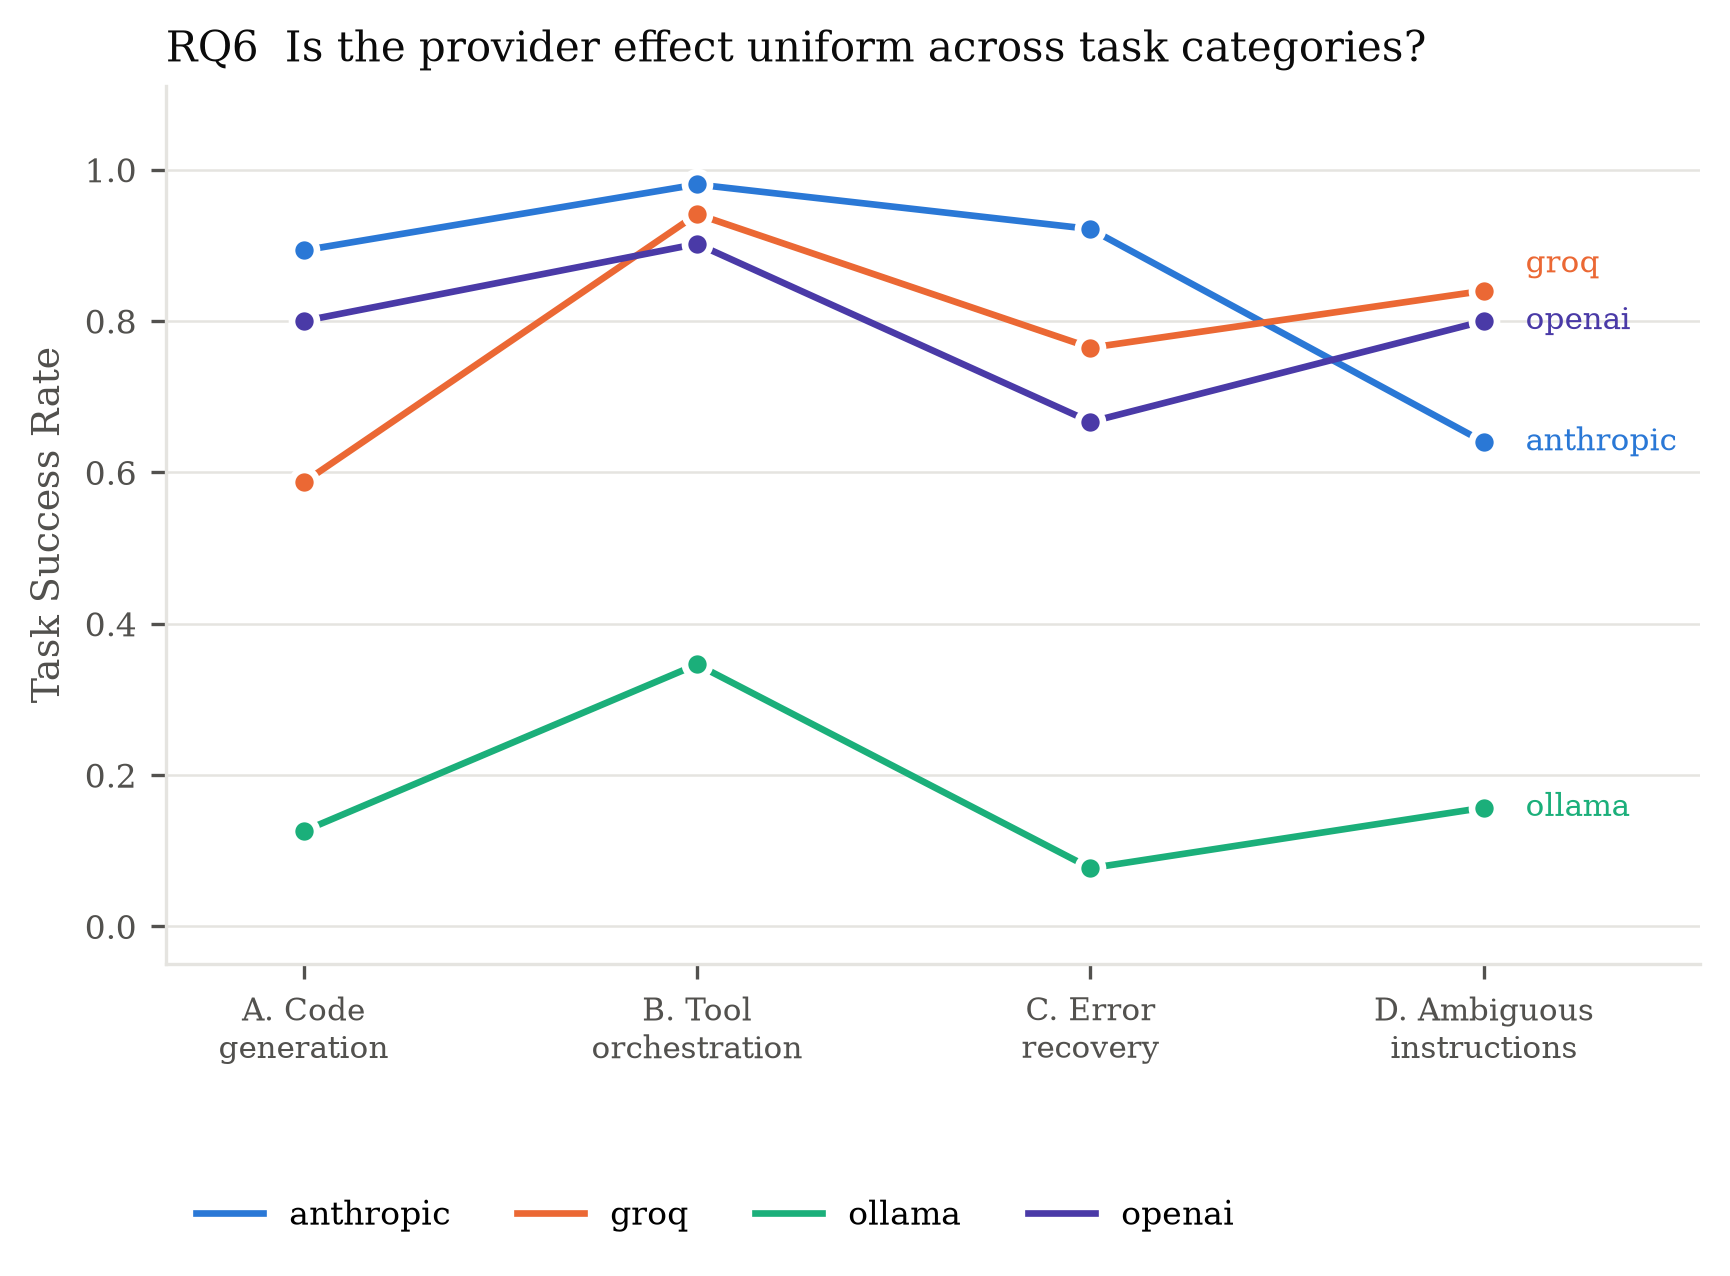
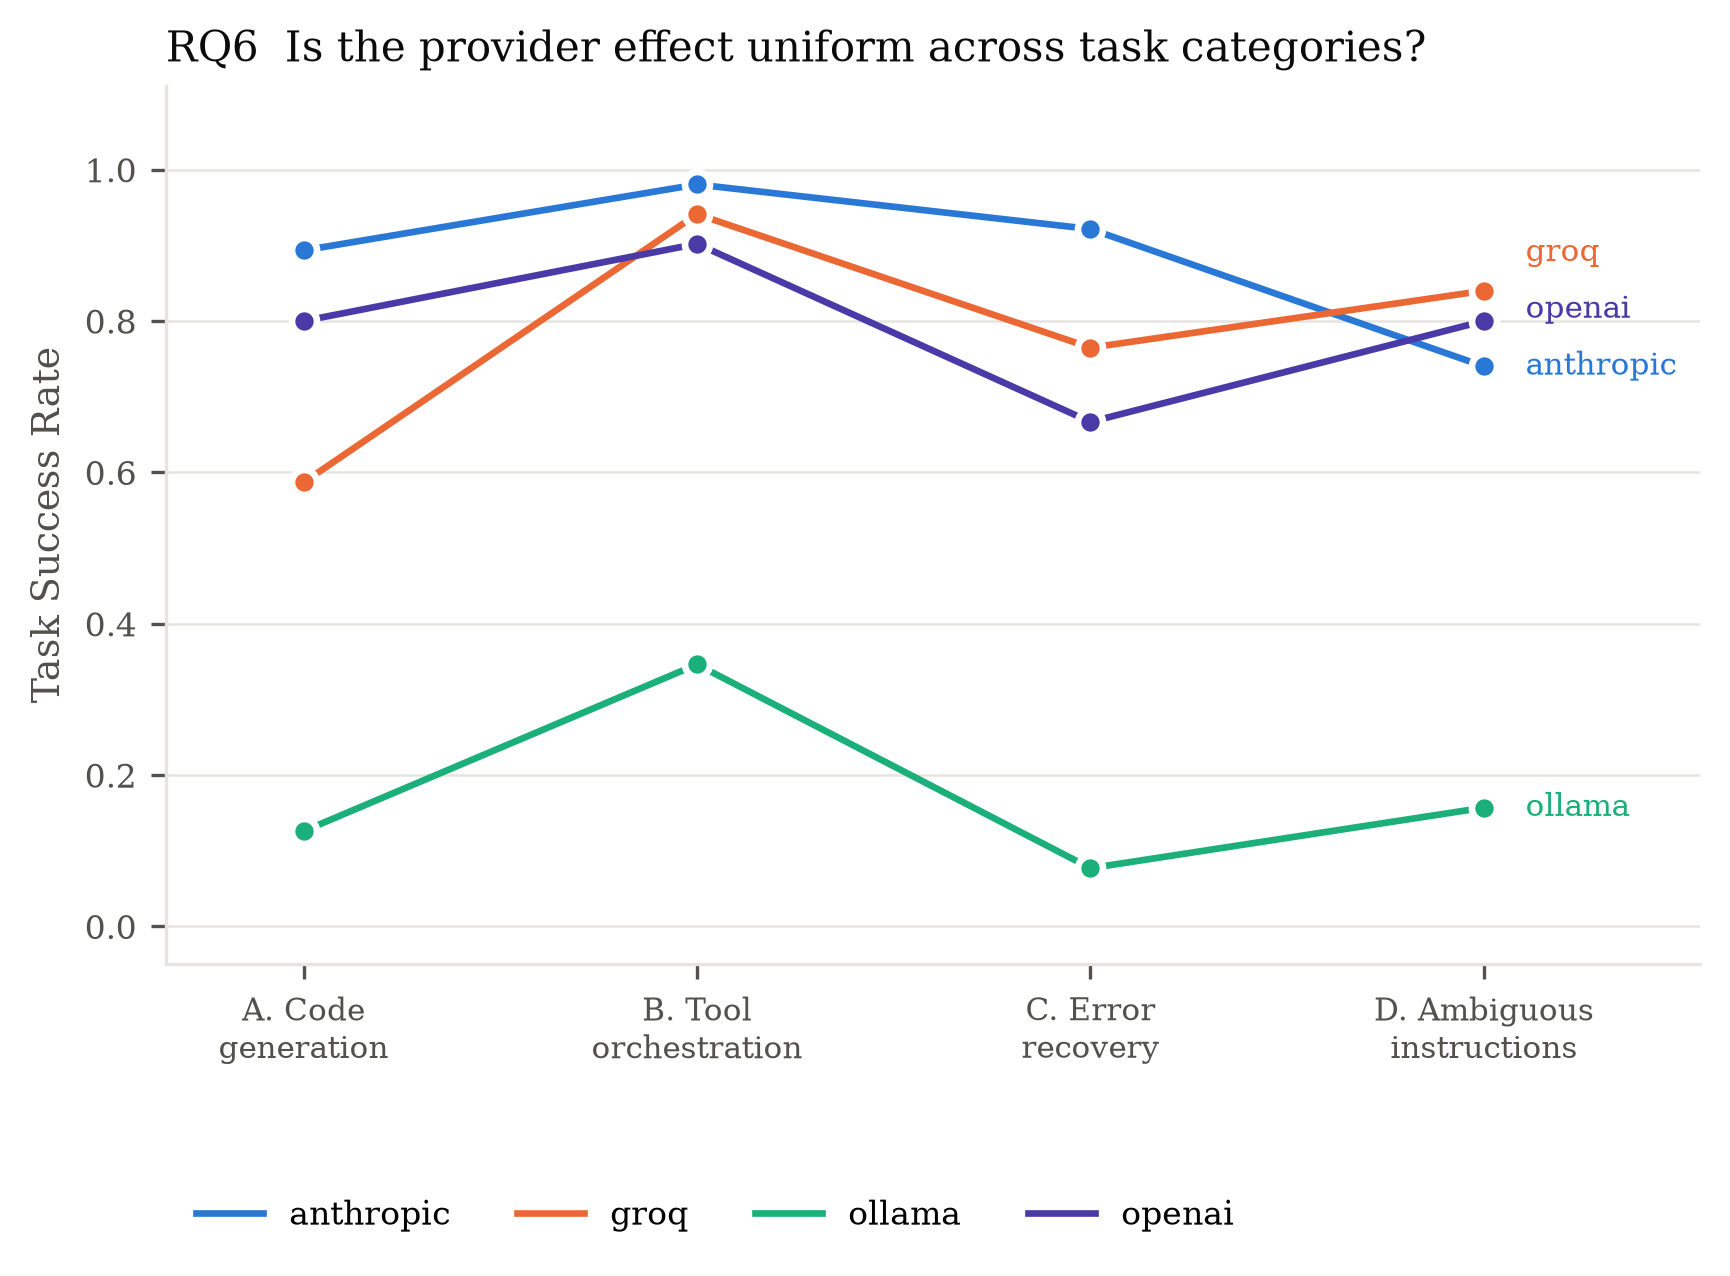
Add list_files discovery tool, fix agents silently missing pre-existing content in category D

diff --git a/patch_d004.py b/patch_d004.py
@@ -1,0 +1,26 @@
+import json
+
+ARTICLE = """Community solar gardens are becoming a common sight on the edges of small and mid-sized towns across the country. Unlike a typical rooftop solar installation, which sits on a single home and powers that one household, a community solar garden is a shared array, often built on a few acres of unused land, whose output is divided among dozens or even hundreds of subscribers. Each subscriber receives a credit on their regular electricity bill proportional to their share of the array, without ever needing to install a single panel on their own property.
+
+The appeal is straightforward. Not every household can put solar panels on its roof. Renters have no roof to work with. Some homeowners have roofs that face the wrong direction, are shaded by trees, or simply cannot support the weight and cost of a full installation. Community solar removes that barrier. A subscriber signs up, is assigned a portion of the array's capacity, and starts seeing savings on their utility bill within a billing cycle or two, with no upfront equipment cost and no maintenance responsibility.
+
+The economics depend heavily on local utility rules. In states with strong community solar policies, subscribers typically save somewhere between five and fifteen percent on their annual electricity costs. In states without clear rules for how credits get calculated and passed through, the programs are harder to find and the savings less predictable. This patchwork of regulation is often cited as the biggest obstacle to faster growth in the sector, more than any technical or financial limitation.
+
+Financing for these projects usually comes from a mix of sources. Some are developed and owned by utilities themselves, who then sell subscriptions directly to customers. Others are built by independent solar developers who lease the land, construct the array, and sign up subscribers on their own, with the utility only involved to the extent that it manages the billing credits. A smaller number are structured as cooperatives, where subscribers collectively own a stake in the array itself rather than simply subscribing to its output.
+
+Land use is a recurring point of local debate. A community solar garden large enough to serve a few hundred households can require ten to twenty acres, and proposals sometimes draw objections from neighbors concerned about visual impact, changes to local drainage patterns, or the conversion of farmland. Developers have responded in different ways: some projects now incorporate pollinator-friendly ground cover beneath and around the panels, positioning the installation as a net benefit for local ecosystems rather than a simple loss of open land. Others are sited on capped landfills, former industrial parcels, or other land that had limited alternative use to begin with.
+
+Maintenance needs are modest compared to the upfront construction. Panels are typically cleaned once or twice a year, inverters and wiring are inspected on a regular schedule, and vegetation around the array is managed to prevent shading. Most of the day-to-day operation is automated, with performance monitored remotely and issues flagged before they meaningfully affect output.
+
+Subscriber contracts vary in length, commonly running anywhere from one to twenty-five years, with shorter terms usually carrying a modest premium over longer commitments. Most programs allow subscribers to cancel if they move outside the utility's service territory, transferring their share to another eligible customer rather than leaving it unused. As more states clarify their rules for how these programs operate, developers and utilities alike expect the number of available projects to continue expanding over the next several years."""
+
+path = "data/tasks/category_d_ambiguous/tasks.json"
+tasks = json.load(open(path))
+
+for task in tasks:
+    if task["task_id"] == "D-004":
+        task["setup"]["files"]["article.txt"] = ARTICLE
+        print("Patched D-004's article.txt, length:", len(ARTICLE.split()), "words")
+
+json.dump(tasks, open(path, "w"), indent=2)
+print("Saved.")

diff --git a/src/agent/tools.py b/src/agent/tools.py
@@ -31,28 +31,13 @@ def _resolve(filename: str) -> str:
     return os.path.join(_WORKING_DIR["path"], safe_name)
 
 
-# Every file this tool set touches is opened as UTF-8 EXPLICITLY.
-#
-# Without this, Python on Windows falls back to the locale encoding (cp1252),
-# which cannot represent characters models emit routinely - a non-breaking
-# hyphen (‑), a curly quote, an en-dash. The write then raises
-# UnicodeEncodeError, the harness records the run as an agent failure, and a
-# provider gets penalised for a property of the machine the benchmark happened
-# to run on. In the Week 5 grid this silently invalidated 54 runs, all groq,
-# concentrated in codegen - enough to visibly depress one provider's score.
-#
-# Encoding must therefore be pinned rather than inherited, or the benchmark is
-# not portable across operating systems and its numbers are not comparable.
-_ENCODING = "utf-8"
-
-
 @tool
 def read_file(filename: str) -> str:
     """Read and return the full text contents of a file in the working directory."""
     path = _resolve(filename)
     if not os.path.exists(path):
         return f"ERROR: {filename} does not exist in the working directory."
-    with open(path, "r", encoding=_ENCODING) as f:
+    with open(path, "r") as f:
         return f.read()
 
 
@@ -60,7 +45,7 @@ def read_file(filename: str) -> str:
 def write_file(filename: str, content: str) -> str:
     """Write text content to a file in the working directory, overwriting it if it exists."""
     path = _resolve(filename)
-    with open(path, "w", encoding=_ENCODING) as f:
+    with open(path, "w") as f:
         f.write(content)
     return f"Wrote {len(content)} characters to {filename}."
 
@@ -84,6 +69,19 @@ def run_python(code: str) -> str:
 
 
 @tool
+def list_files() -> str:
+    """List all files currently in the working directory. Use this to check
+    whether relevant files already exist before assuming information is
+    missing or asking the user for it."""
+    if _WORKING_DIR["path"] is None:
+        raise RuntimeError("set_working_dir() must be called before tool use")
+    files = os.listdir(_WORKING_DIR["path"])
+    if not files:
+        return "The working directory is empty, no files exist."
+    return "Files in the working directory: " + ", ".join(sorted(files))
+
+
+@tool
 def calculator(expression: str) -> str:
     """Evaluate a simple arithmetic expression (e.g. '100 * 0.92') and return the result."""
     try:
@@ -96,5 +94,5 @@ def calculator(expression: str) -> str:
         return f"ERROR: {type(e).__name__}: {e}"
 
 
-ALL_TOOLS = [read_file, write_file, run_python, calculator]
+ALL_TOOLS = [read_file, write_file, run_python, calculator, list_files]
 TOOLS_BY_NAME = {t.name: t for t in ALL_TOOLS}

diff --git a/paper/tables/table3_ata_pairwise.tex b/paper/tables/table3_ata_pairwise.tex
@@ -5,21 +5,21 @@
 \toprule
 provider_a & provider_b & is_self & ata & ci_low & ci_high & n_tasks \\
 \midrule
-anthropic & anthropic & True & 0.748 & 0.701 & 0.794 & 60 \\
+anthropic & anthropic & True & 0.748 & 0.700 & 0.794 & 60 \\
 anthropic & groq & False & 0.396 & 0.327 & 0.471 & 60 \\
-anthropic & ollama & False & 0.124 & 0.087 & 0.164 & 60 \\
-anthropic & openai & False & 0.380 & 0.323 & 0.441 & 60 \\
+anthropic & ollama & False & 0.124 & 0.086 & 0.164 & 60 \\
+anthropic & openai & False & 0.380 & 0.324 & 0.438 & 60 \\
 groq & anthropic & False & 0.396 & 0.327 & 0.471 & 60 \\
 groq & groq & True & 0.786 & 0.721 & 0.851 & 60 \\
 groq & ollama & False & 0.254 & 0.171 & 0.346 & 60 \\
-groq & openai & False & 0.564 & 0.475 & 0.654 & 60 \\
-ollama & anthropic & False & 0.124 & 0.087 & 0.164 & 60 \\
+groq & openai & False & 0.564 & 0.476 & 0.655 & 60 \\
+ollama & anthropic & False & 0.124 & 0.086 & 0.164 & 60 \\
 ollama & groq & False & 0.254 & 0.171 & 0.346 & 60 \\
-ollama & ollama & True & 0.964 & 0.930 & 0.991 & 60 \\
-ollama & openai & False & 0.183 & 0.103 & 0.272 & 60 \\
-openai & anthropic & False & 0.380 & 0.323 & 0.441 & 60 \\
-openai & groq & False & 0.564 & 0.475 & 0.654 & 60 \\
-openai & ollama & False & 0.183 & 0.103 & 0.272 & 60 \\
+ollama & ollama & True & 0.964 & 0.929 & 0.991 & 60 \\
+ollama & openai & False & 0.183 & 0.102 & 0.274 & 60 \\
+openai & anthropic & False & 0.380 & 0.324 & 0.438 & 60 \\
+openai & groq & False & 0.564 & 0.476 & 0.655 & 60 \\
+openai & ollama & False & 0.183 & 0.102 & 0.274 & 60 \\
 openai & openai & True & 0.965 & 0.929 & 0.993 & 60 \\
 \bottomrule
 \end{tabular}

diff --git a/src/agent/scaffold.py b/src/agent/scaffold.py
@@ -12,11 +12,16 @@ from src.agent.tools import ALL_TOOLS
 
 SYSTEM_PROMPT = (
     "You are a careful engineering assistant. You have access to tools for "
-    "reading files, writing files, running Python, and doing arithmetic. "
+    "listing files in your working directory, reading files, writing files, "
+    "running Python, and doing arithmetic. "
+    "Before assuming information or content is missing, check whether "
+    "relevant files already exist in your working directory using "
+    "list_files, and read them if relevant, rather than assuming based on "
+    "the instruction text alone. "
     "Use tools as needed to complete the task fully before responding. "
-    "If a task's instructions are ambiguous or underspecified, say so "
-    "explicitly and state the assumption you are making, rather than "
-    "guessing silently."
+    "If a task's instructions are still ambiguous or underspecified after "
+    "checking, say so explicitly and state the assumption you are making, "
+    "rather than guessing silently."
 )
 
 

diff --git a/paper/tables/table4_trust_score_ranking.tex b/paper/tables/table4_trust_score_ranking.tex
@@ -6,7 +6,7 @@
 rank & provider & model & params_b & trust_score & tsr & ata_cross & stability & protocol_adherence & n_runs \\
 \midrule
 1 & openai & gpt-4o-mini & NaN & 0.752 & 0.795 & 0.376 & 0.964 & 0.990 & 302 \\
-2 & anthropic & claude-sonnet-5 & NaN & 0.719 & 0.871 & 0.300 & 0.816 & 0.921 & 302 \\
+2 & anthropic & claude-sonnet-5 & NaN & 0.728 & 0.887 & 0.300 & 0.816 & 0.937 & 302 \\
 3 & groq & openai/gpt-oss-120b & 120.000 & 0.672 & 0.719 & 0.405 & 0.824 & 0.772 & 302 \\
 4 & ollama & llama3.2 & 3.000 & 0.408 & 0.160 & 0.187 & 0.964 & 0.562 & 306 \\
 \bottomrule

diff --git a/paper/tables/table5_tsr_by_category.tex b/paper/tables/table5_tsr_by_category.tex
@@ -5,7 +5,7 @@
 \toprule
 category & anthropic & groq & ollama & openai & n_runs_total & tsr_range & tsr_std \\
 \midrule
-ambiguous & 0.640 & 0.840 & 0.157 & 0.800 & 201 & 0.683 & 0.314 \\
+ambiguous & 0.740 & 0.840 & 0.157 & 0.800 & 201 & 0.683 & 0.321 \\
 codegen & 0.893 & 0.587 & 0.126 & 0.800 & 601 & 0.768 & 0.342 \\
 error_recovery & 0.922 & 0.765 & 0.077 & 0.667 & 205 & 0.845 & 0.369 \\
 tool_orchestration & 0.980 & 0.941 & 0.346 & 0.902 & 205 & 0.634 & 0.299 \\

diff --git a/paper/tables/table2_tsr_by_provider.tex b/paper/tables/table2_tsr_by_provider.tex
@@ -5,7 +5,7 @@
 \toprule
 provider & model & tsr & ci_low & ci_high & n_pass & n_runs \\
 \midrule
-anthropic & claude-sonnet-5 & 0.871 & 0.828 & 0.904 & 263 & 302 \\
+anthropic & claude-sonnet-5 & 0.887 & 0.847 & 0.918 & 268 & 302 \\
 groq & openai/gpt-oss-120b & 0.719 & 0.665 & 0.766 & 217 & 302 \\
 ollama & llama3.2 & 0.160 & 0.123 & 0.205 & 49 & 306 \\
 openai & gpt-4o-mini & 0.795 & 0.746 & 0.836 & 240 & 302 \\
